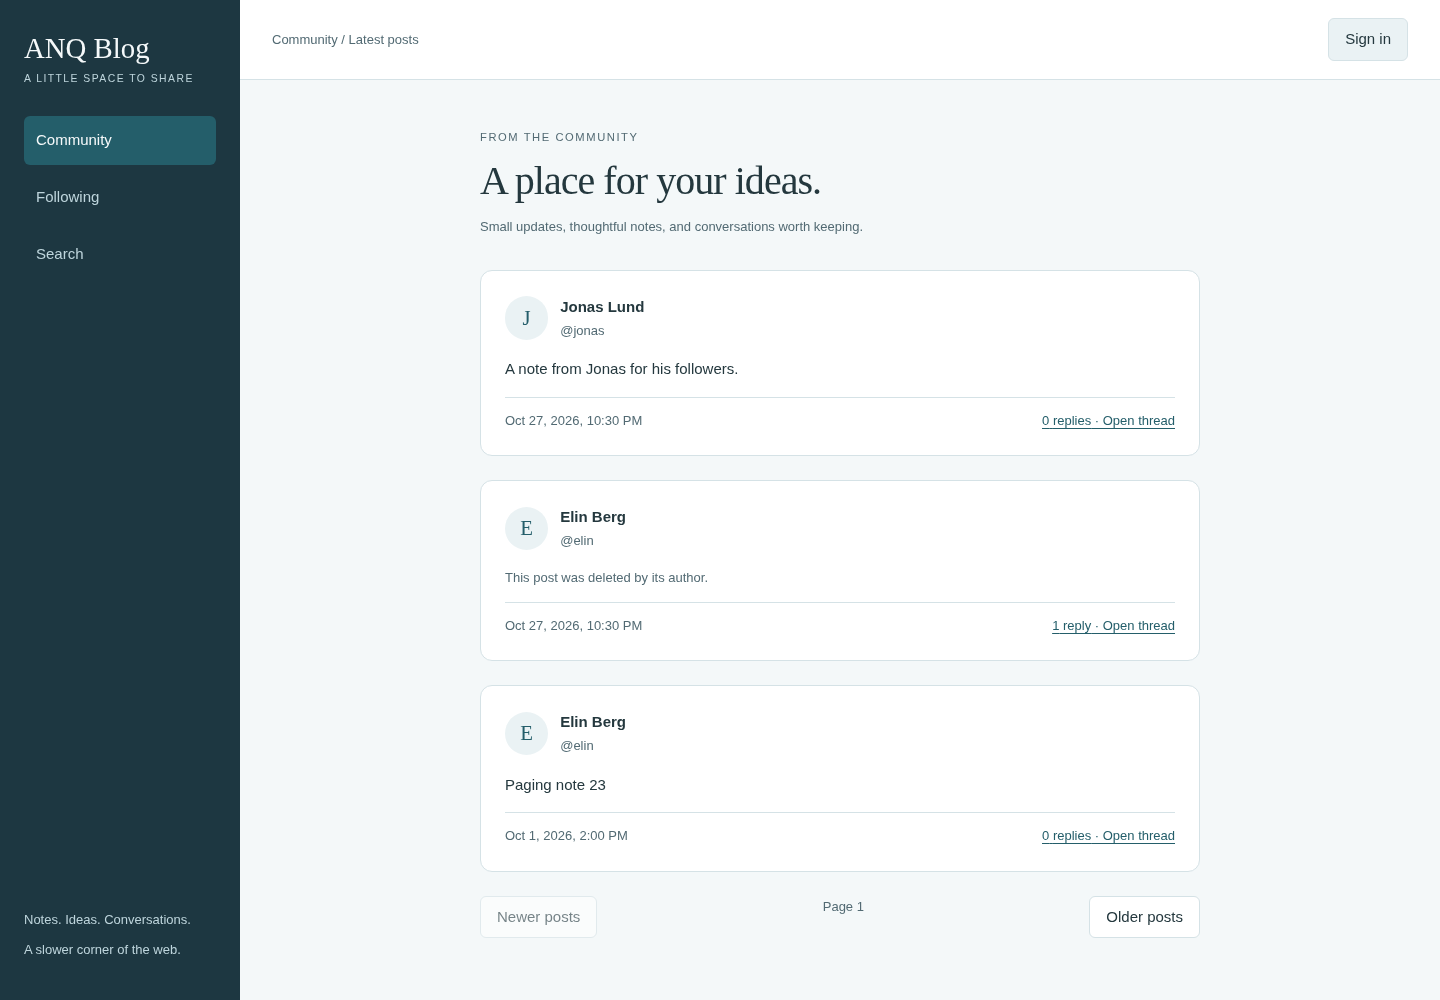
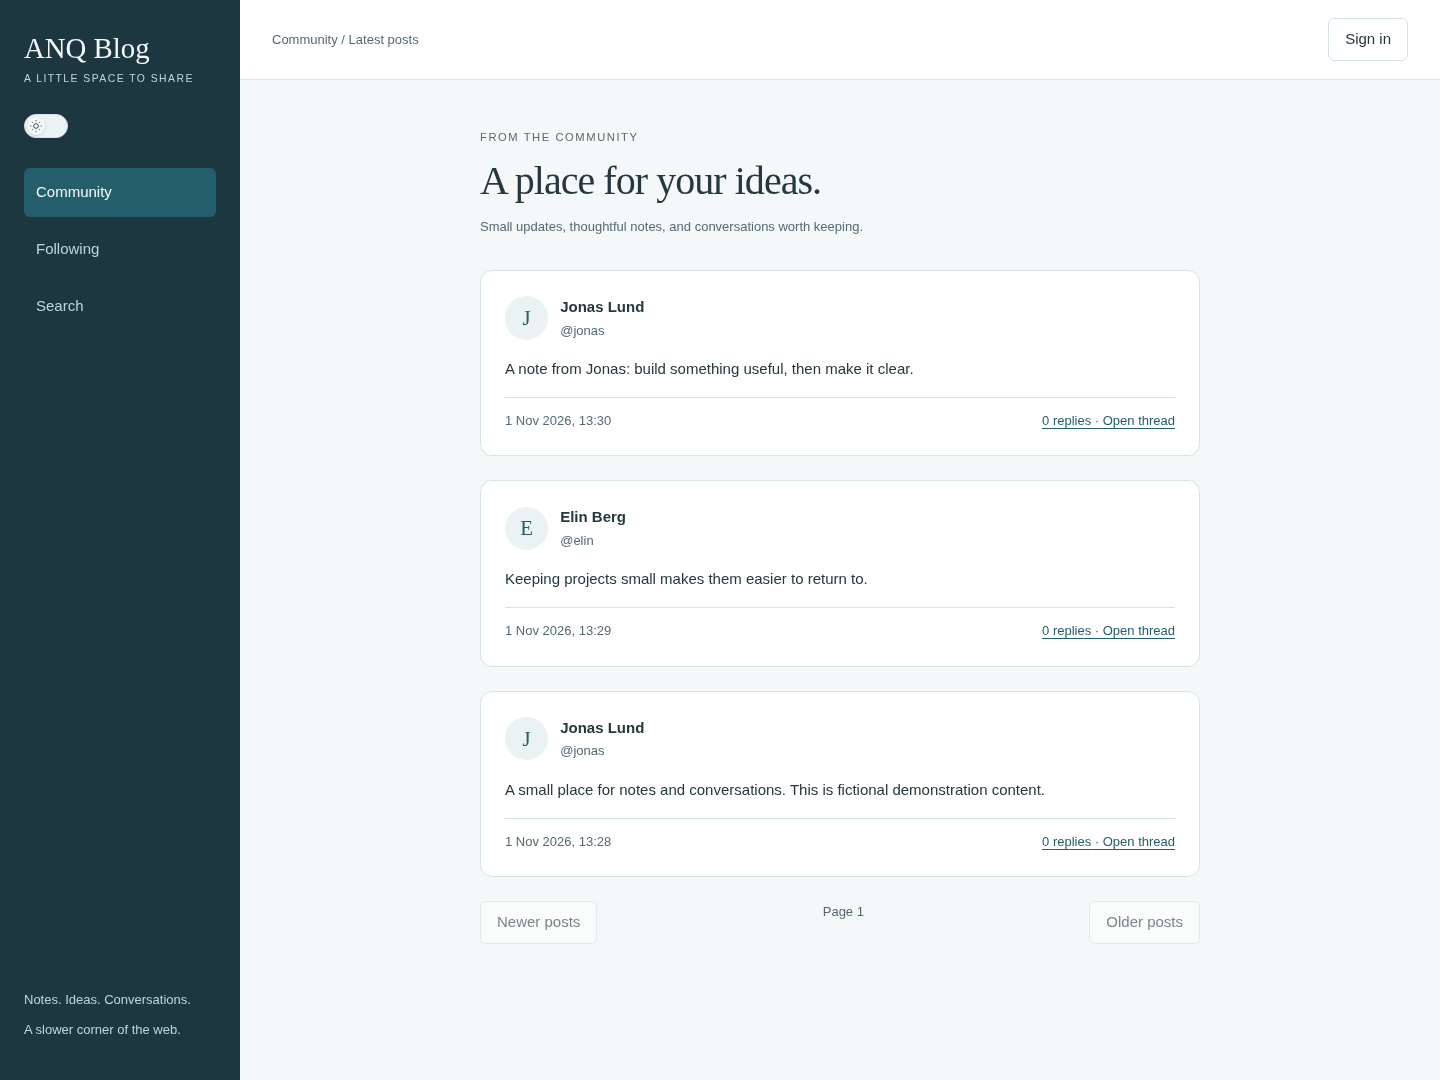
docs(blog): refresh community and moderation screenshots

diff --git a/README.md b/README.md
@@ -5,6 +5,8 @@
 A small social publishing app: share a note, reply to someone, and return to the
 conversation. Built with React, TypeScript, Fastify and PostgreSQL.
 
+![Community feed with fictional members and posts](docs/screenshots/community-desktop.png)
+
 Navigation keeps the desktop sidebar and uses a labelled, keyboard-accessible mobile
 menu with a return-to-top control. Colours follow the device’s light/dark preference
 until the navigation’s appearance switch is used; that choice is saved in the browser.
